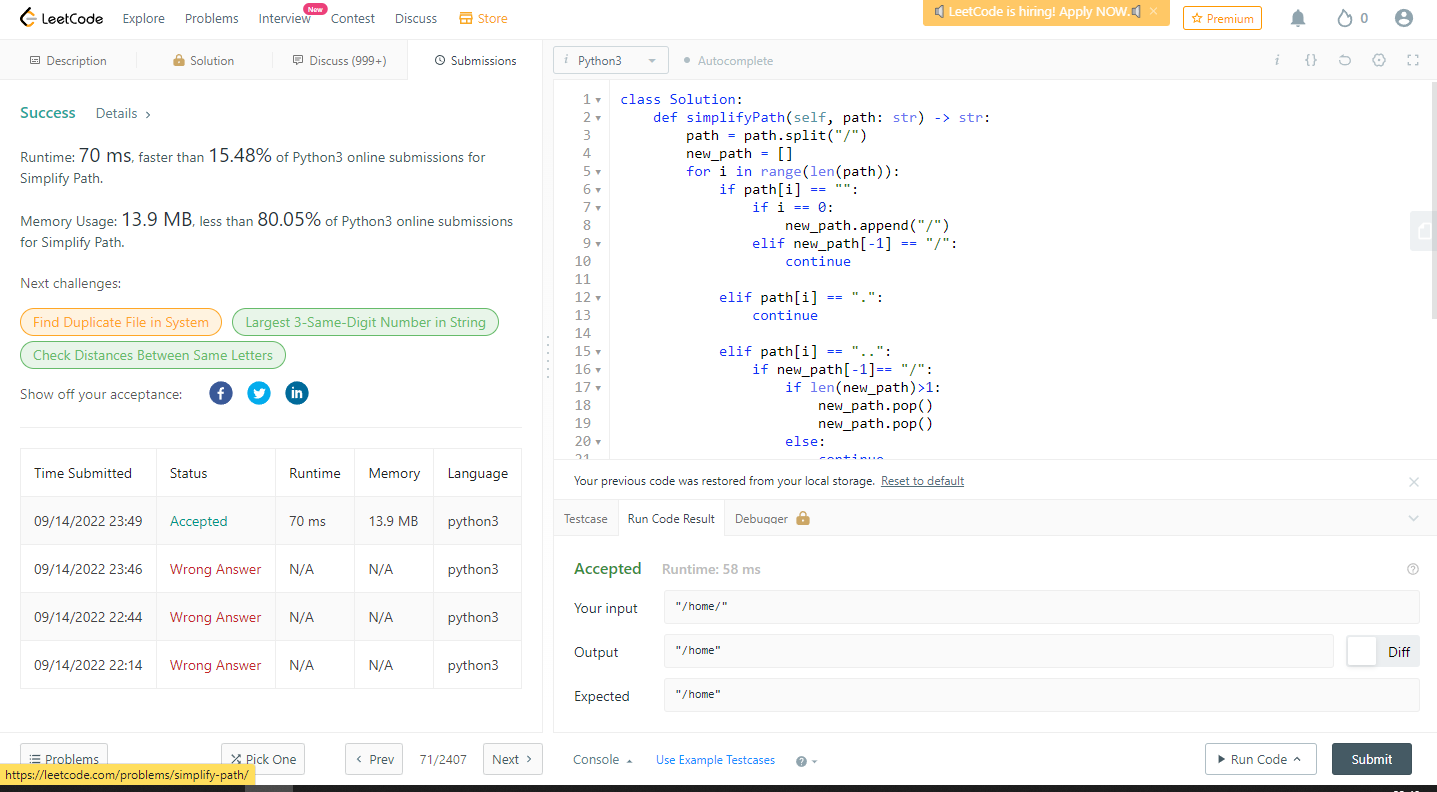
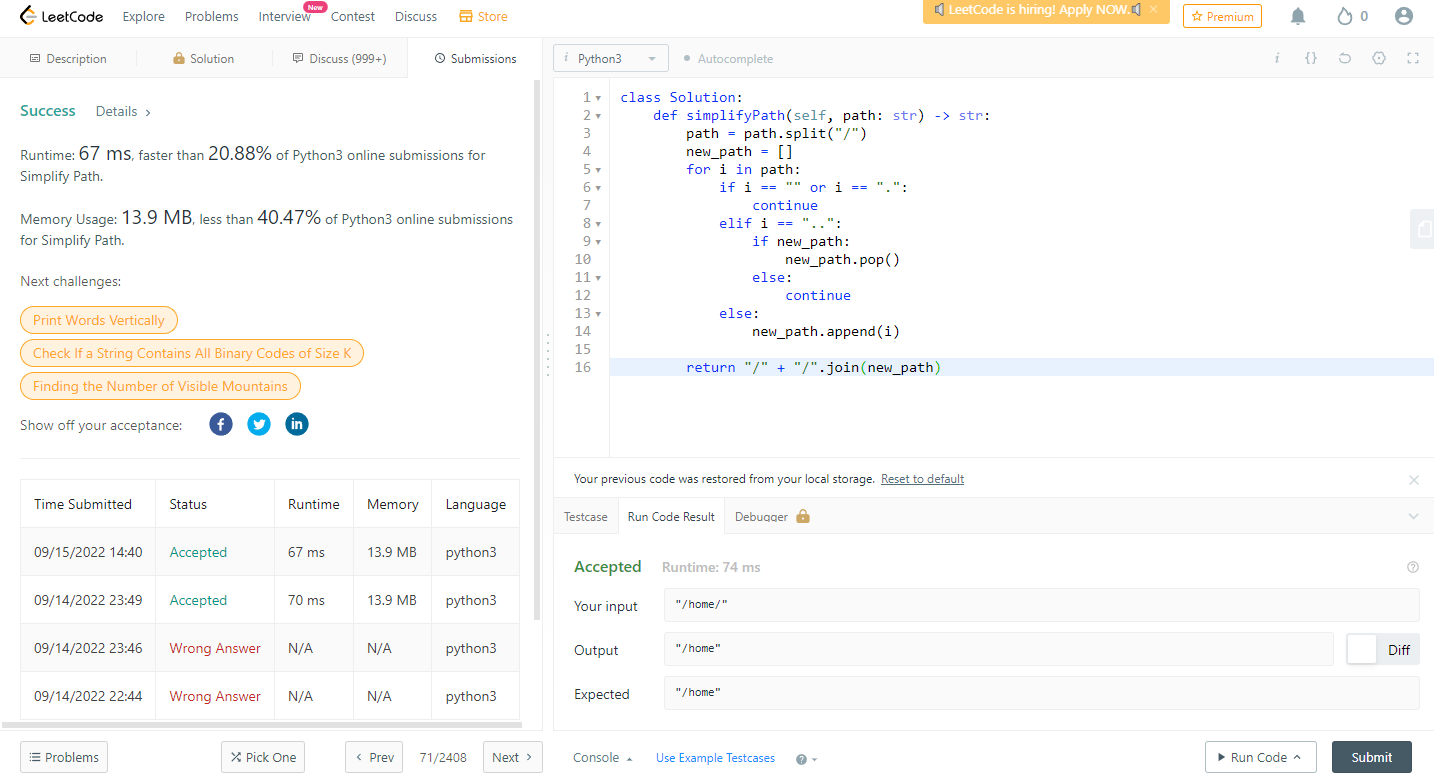
Code optimization

diff --git a/71_Simplify_path/71_Simplify_path_solution.py b/71_Simplify_path/71_Simplify_path_solution.py
@@ -4,30 +4,15 @@ class Solution:
     def simplifyPath(self, path: str) -> str:
         path = path.split("/")
         new_path = []
-        print(path, "\n")
-        for i in range(len(path)):
-            if path[i] == "":
-                if i == 0:
-                    new_path.append("/")
-                elif new_path[-1] == "/":
-                    continue
-
-            elif path[i] == ".":
+        for i in path:
+            if i == "" or i == ".":
                 continue
-
-            elif path[i] == "..":
-                if new_path[-1] == "/":
-                    if len(new_path) > 1:
-                        new_path.pop()
-                        new_path.pop()
-                    else:
-                        continue
-                else:
+            elif i == "..":
+                if new_path:
                     new_path.pop()
+                else:
+                    continue
             else:
-                new_path.append(path[i])
-                new_path.append("/")
-        if new_path[-1] == "/" and len(new_path) > 1:
-            new_path.pop()
+                new_path.append(i)
 
-        return "".join(new_path)
+        return "/" + "/".join(new_path)

diff --git a/1929_Concatenation_of_array/1929_Concatenation_of_array_solution.py b/1929_Concatenation_of_array/1929_Concatenation_of_array_solution.py
@@ -2,10 +2,11 @@
 
 class Solution:
     def getConcatenation(self, nums: list[int]) -> list[int]:
-        nums = [1,2,1]
+        nums = [1, 2, 1]
         new_nums = []
-        for i in range(len(nums)):
-            new_nums.insert(i,nums[i])
-            new_nums.insert(i+len(nums), nums[i])
+        length = len(nums)
+        for i in range(length):
+            new_nums.insert(i, nums[i])
+            new_nums.insert(i + length, nums[i])
 
         return new_nums
